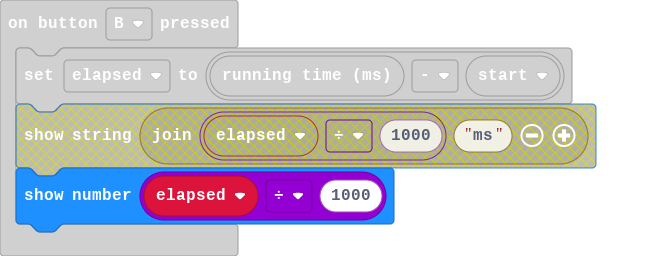
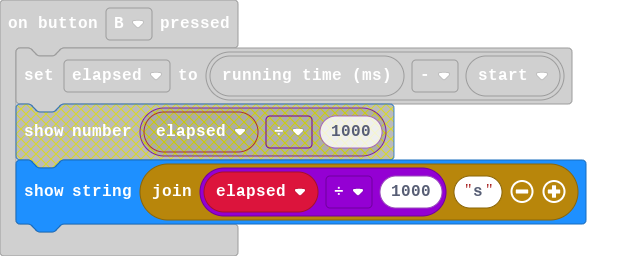
YEAH

diff --git a/main.ts b/main.ts
@@ -5,5 +5,5 @@ input.onButtonPressed(Button.A, function () {
 })
 input.onButtonPressed(Button.B, function () {
     elapsed = input.runningTime() - start
-    basic.showNumber(elapsed / 1000)
+    basic.showString("" + elapsed / 1000 + "s")
 })
